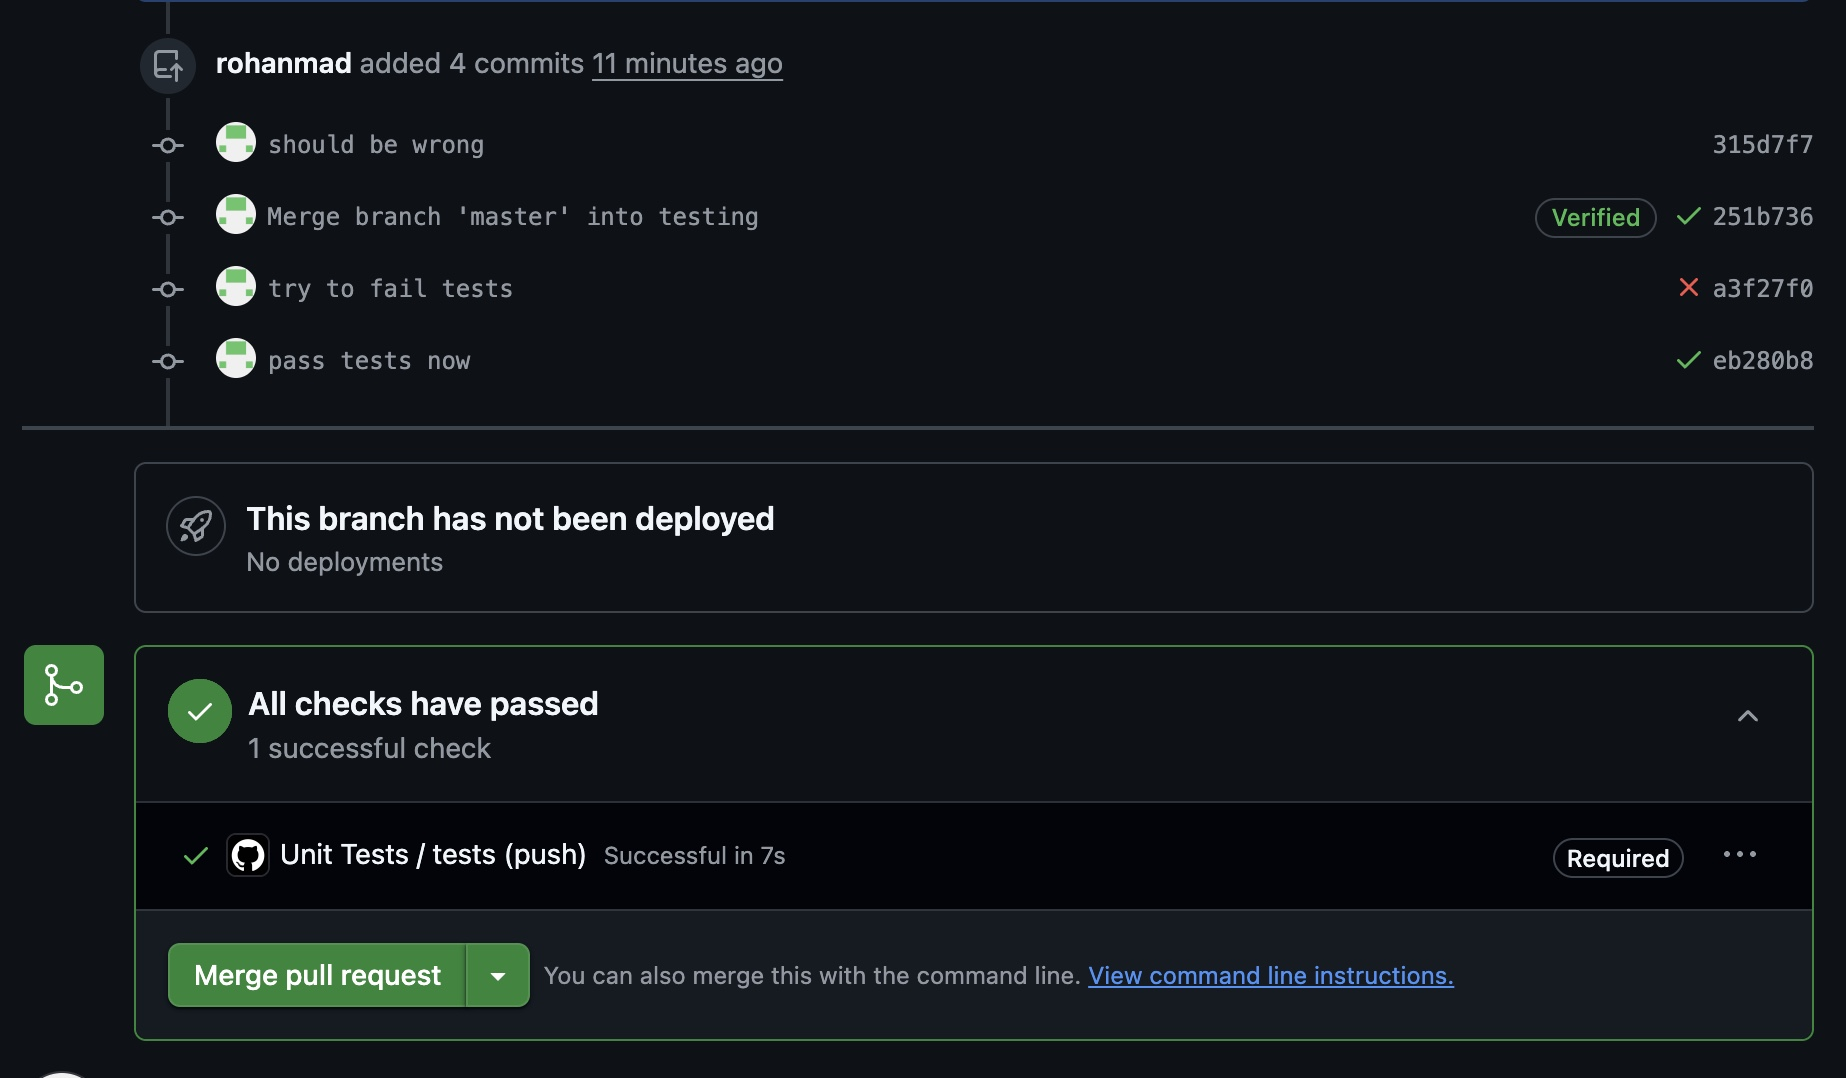
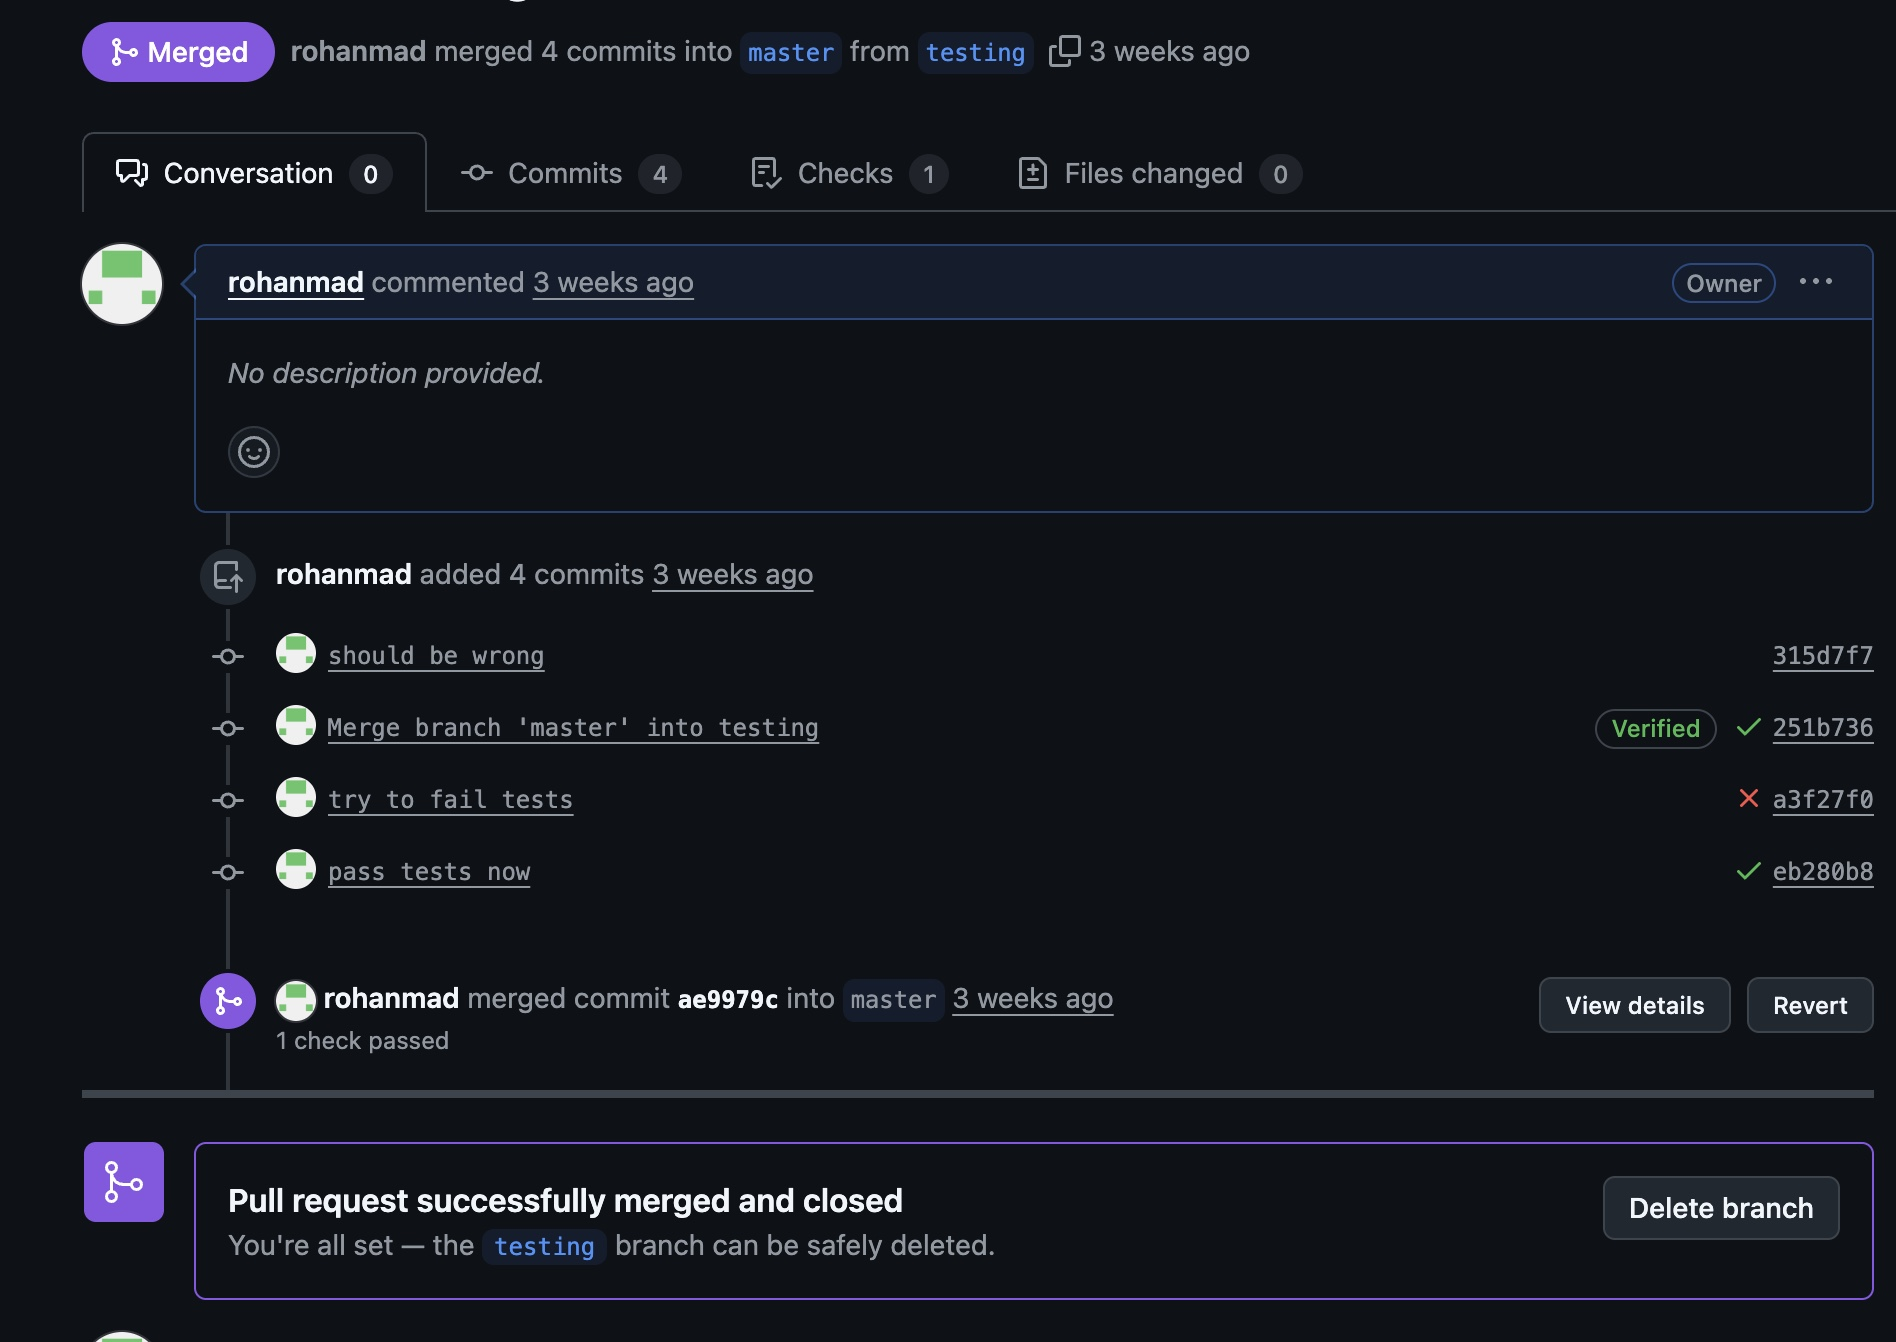
regrade fix

diff --git a/assets/scripts/expose.js b/assets/scripts/expose.js
@@ -1,86 +1,59 @@
-// expose.js
-
 window.addEventListener('DOMContentLoaded', init);
 
 function init() {
-  // TODO
-
-
   const select = document.querySelector("#horn-select");
-  const volumeLevel = document.createElement("audio");
+  const volumeSlider = document.querySelector("#volume");
+  const btn = document.querySelector("#expose button");
+  const jsConfetti = new JSConfetti();
+  const hornImg = document.querySelector("#expose img");
+  const volImg = document.querySelector("#volume-controls img");
+  const audio = document.querySelector("audio.hidden");
+
   let horn = "";
 
+  select.addEventListener("change", (event) => {
+    horn = event.target.value;
 
-  select.addEventListener("change", (event)=>{
-    // console.log(event.target.value);
-    if(event.target.value=="car-horn"){
-      horn = event.target.value;
-      let carhornimg = document.querySelector("#expose img");
-      carhornimg.src = "assets/images/car-horn.svg";
-      carhornimg.alt = "car horns";
+    if (horn === "car-horn") {
+      hornImg.src = "assets/images/car-horn.svg";
+      hornImg.alt = "car horn";
+      audio.src = "assets/audio/car-horn.mp3";
     }
-    if(event.target.value=="air-horn"){
-      horn = event.target.value;
-      let airhornimg = document.querySelector("#expose img");
-      airhornimg.src = "assets/images/air-horn.svg";
-      airhornimg.alt = "air horn";
+    if (horn === "air-horn") {
+      hornImg.src = "assets/images/air-horn.svg";
+      hornImg.alt = "air horn";
+      audio.src = "assets/audio/air-horn.mp3";
     }
-    if(event.target.value=="party-horn"){
-      horn = event.target.value;
-      let partyhornimg = document.querySelector("#expose img");
-      partyhornimg.src = "assets/images/party-horn.svg";
-      partyhornimg.alt = "car horns";
+    if (horn === "party-horn") {
+      hornImg.src = "assets/images/party-horn.svg";
+      hornImg.alt = "party horn";
+      audio.src = "assets/audio/party-horn.mp3";
     }
   });
 
-  const volumeSlider = document.querySelector("#volume");
+  volumeSlider.addEventListener("input", (event) => {
+    let vol = event.target.value;
+    audio.volume = vol / 100;
 
-  volumeSlider.addEventListener("input", (event)=>{
-    const vol = event.target.value;
-    console.log(vol);
-    if(vol==0){
-      let volimg = document.querySelector("#volume-controls img");
-      volimg.src = "assets/icons/volume-level-0.svg";
-      volumeLevel.volume = volumeSlider.value / 100;
+    if (vol == 0) {
+      volImg.src = "assets/icons/volume-level-0.svg";
     }
-    if(vol > 0 && vol < 33){
-      let volimg = document.querySelector("#volume-controls img");
-      volimg.src = "assets/icons/volume-level-1.svg";
-      volumeLevel.volume = volumeSlider.value / 100;
+    if (vol > 0 && vol < 33) {
+      volImg.src = "assets/icons/volume-level-1.svg";
     }
-    if(vol > 33 && vol < 66){
-      let volimg = document.querySelector("#volume-controls img");
-      volimg.src = "assets/icons/volume-level-2.svg";
-      volumeLevel.volume = volumeSlider.value / 100;
+    if (vol >= 33 && vol < 66) {
+      volImg.src = "assets/icons/volume-level-2.svg";
     }
-    if(vol > 66){
-      let volimg = document.querySelector("#volume-controls img");
-      volimg.src = "assets/icons/volume-level-3.svg";
-      volumeLevel.volume = volumeSlider.value / 100;
+    if (vol >= 66) {
+      volImg.src = "assets/icons/volume-level-3.svg";
     }
   });
 
+  btn.addEventListener("click", () => {
+    audio.currentTime = 0;
+    audio.play();
 
-  const btn = document.querySelector("#expose button");
-
-  const jsConfetti = new JSConfetti();
-  const canvas = document.querySelector("canvas");
-
-  btn.addEventListener("click", (event)=>{
-    if(horn=="car-horn"){
-      let audio = new Audio("assets/audio/car-horn.mp3");
-      audio.volume = volumeLevel.volume;
-      audio.play();
-    }
-    if(horn=="air-horn"){
-      let audio = new Audio("assets/audio/air-horn.mp3");
-      audio.volume = volumeLevel.volume;
-      audio.play();
-    }
-    if(horn=="party-horn"){
-      let audio = new Audio("assets/audio/party-horn.mp3");
-      audio.volume = volumeLevel.volume;
-      audio.play();
+    if (horn === "party-horn") {
       jsConfetti.addConfetti({
         emojis: ['🎉', '🥳', '✨'],
         confettiNumber: 100,
@@ -88,7 +61,4 @@ function init() {
       });
     }
   });
-
-
-
 }
